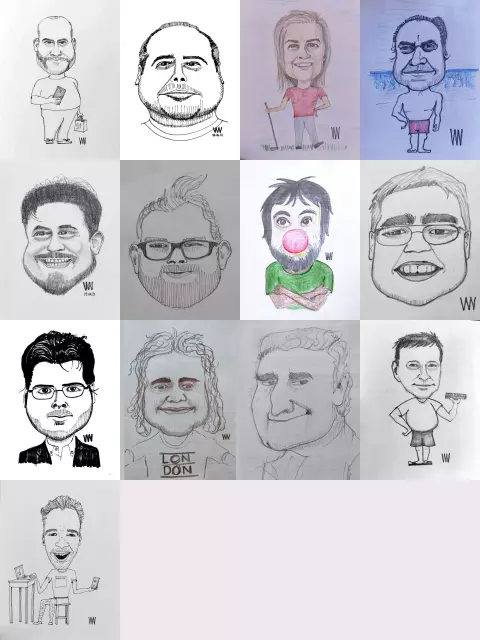
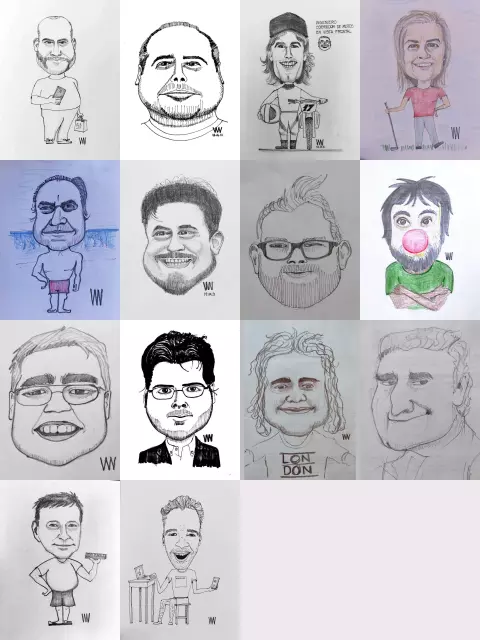
Version 20210703

diff --git a/galeria-conocidos-2.html b/galeria-conocidos-2.html
@@ -31,22 +31,25 @@
 		</p>
 		<div class="col-6 img-responsive" style="text-align:center;">
 			<map name="primary">
-				<area shape="rect" coords="000,000,120,160" onclick="muestraImagen('images/personajes/JohnnieV.webp ')" alt="Johnnie V">      
-				<area shape="rect" coords="120,000,240,160" onclick="muestraImagen('images/personajes/JoseLuisM.webp ')" alt="JoseLuisM">      
-				<area shape="rect" coords="240,000,360,160" onclick="muestraImagen('images/personajes/joseO.webp     ')" alt="joseO  ">      
-				<area shape="rect" coords="360,000,480,160" onclick="muestraImagen('images/personajes/lourdesF.webp  ')" alt="Lourdes Flores">             
-				<area shape="rect" coords="000,160,120,320" onclick="muestraImagen('images/personajes/LuciBagilet.webp')" alt="LuciBagilet ">              
-				<area shape="rect" coords="120,160,240,320" onclick="muestraImagen('images/personajes/Magiord.webp   ')" alt="Magiord">             
-				<area shape="rect" coords="240,160,360,320" onclick="muestraImagen('images/personajes/MarianoMocoroa.webp')" alt="MarianoMocoroa">         
-				<area shape="rect" coords="360,160,480,320" onclick="muestraImagen('images/personajes/Nane.webp      ')" alt="Nane	">             
-				<area shape="rect" coords="000,320,120,480" onclick="muestraImagen('images/personajes/NataliaMariscotti.webp  ')" alt="Natalia Mariscotti">
-				<area shape="rect" coords="120,320,240,480" onclick="muestraImagen('images/personajes/OscarAbe.webp  ')" alt="Oscar Abella">   
-				<area shape="rect" coords="240,320,360,480" onclick="muestraImagen('images/personajes/OscarDeSan.webp')" alt="Oscar de Sanctis">   
-				<area shape="rect" coords="360,320,480,480" onclick="muestraImagen('images/personajes/Pascal.webp    ')" alt="Pascal">                 
-				<area shape="rect" coords="000,480,120,640" onclick="muestraImagen('images/personajes/RubenD.webp    ')" alt="RubenD">
-				<area shape="rect" coords="120,480,240,640" onclick="muestraImagen('images/personajes/WillieV-simpatico+txt.webp')" alt="el dibujante">
-				<area shape="rect" coords="240,480,360,640" onclick="muestraImagen('images/personajes/WillieV-simpatico+txt.webp')" alt="el dibujante">
-				<area shape="rect" coords="360,480,480,640" onclick="muestraImagen('images/personajes/WillieV-simpatico+txt.webp')" alt="el dibujante">
+				<area shape="rect" coords="000,000,120,160" onclick="muestraImagen('images/personajes/JesusCejas.webp			')" alt="Jesus Cejas">      
+				<area shape="rect" coords="120,000,240,160" onclick="muestraImagen('images/personajes/JohnnieV.webp				')" alt="Johnnie V">      
+				<area shape="rect" coords="240,000,360,160" onclick="muestraImagen('images/personajes/JoseLuisM.webp			')" alt="JoseLuisM">      
+				<area shape="rect" coords="360,000,480,160" onclick="muestraImagen('images/personajes/joseO.webp					')" alt="joseO  ">      
+				<area shape="rect" coords="000,160,120,320" onclick="muestraImagen('images/personajes/lourdesF.webp				')"	alt="Lourdes Flores">             
+				<area shape="rect" coords="120,160,240,320" onclick="muestraImagen('images/personajes/LuciBagilet.webp		')" alt="LuciBagilet ">              
+				<area shape="rect" coords="240,160,360,320" onclick="muestraImagen('images/personajes/Magiord.webp				')" alt="Magiord">             
+				<area shape="rect" coords="360,160,480,320" onclick="muestraImagen('images/personajes/MarianoMocoroa.webp ')" alt="MarianoMocoroa">         
+				<area shape="rect" coords="000,320,120,480" onclick="muestraImagen('images/personajes/Nane.webp						')" alt="Nane	">             
+				<area shape="rect" coords="120,320,240,480" onclick="muestraImagen('images/personajes/NataliaMariscotti.webp')" alt="Natalia Mariscotti">
+				<area shape="rect" coords="240,320,360,480" onclick="muestraImagen('images/personajes/OscarAbe.webp				')" alt="Oscar Abella">   
+				<area shape="rect" coords="360,320,480,480" onclick="muestraImagen('images/personajes/OscarDeSan.webp			')" alt="Oscar de Sanctis">   
+				<area shape="rect" coords="000,480,120,640" onclick="muestraImagen('images/personajes/OsvaldoDiaz.webp		')" alt="Osvaldo Diaz">   
+				<area shape="rect" coords="120,480,240,640" onclick="muestraImagen('images/personajes/PabloCaputi.webp    ')" alt="PabloCaputi">                 
+				<area shape="rect" coords="240,480,360,640" onclick="muestraImagen('images/personajes/Pascal.webp					')" alt="Pascal">                 
+				<area shape="rect" coords="360,480,480,640" onclick="muestraImagen('images/personajes/RubenD.webp					')" alt="RubenD">
+				
+				<!-- <area shape="rect" coords="" onclick="muestraImagen('images/personajes/WillieV-simpatico+txt.webp')" alt="el dibujante"> -->
+
 			</map>
 			<img usemap="#primary" src="images/personajes/galeria-conocidos-2.webp" alt="personajes conocidos" class="img-responsive">
 

diff --git a/galeria-conocidos-1.html b/galeria-conocidos-1.html
@@ -31,23 +31,20 @@
 		</p>
 		<div class="col-6 img-responsive" style="text-align:center;">
 			<map name="primary">
-				<area shape="rect" coords="000,000,120,160" onclick="muestraImagen('images/personajes/AleH.webp      ')" alt="AleH">
+				<area shape="rect" coords="000,000,120,160" onclick="muestraImagen('images/personajes/AleH.webp					  ')" alt="AleH">
 				<area shape="rect" coords="120,000,240,160" onclick="muestraImagen('images/personajes/AlejandroYacono.webp')" alt="Alejandro Yacono">
-				<area shape="rect" coords="240,000,360,160" onclick="muestraImagen('images/personajes/AnnieV.webp    ')" alt="AnnieV         ">
-				<area shape="rect" coords="360,000,480,160" onclick="muestraImagen('images/personajes/ArielJurjo.webp')" alt="ArielJurjo     ">
-				
-				<area shape="rect" coords="000,160,120,320" onclick="muestraImagen('images/personajes/AugustoOliva.webp')" alt="Augusto Oliva">
-				<area shape="rect" coords="120,160,240,320" onclick="muestraImagen('images/personajes/ClausH.webp    ')" alt="ClausH         ">
-				<area shape="rect" coords="240,160,360,320" onclick="muestraImagen('images/personajes/CristianG.webp ')" alt="Cristian Gonzalez">
-				<area shape="rect" coords="360,160,480,320" onclick="muestraImagen('images/personajes/DiegoT.webp    ')" alt="Diego Torres">
-				
-				<area shape="rect" coords="000,320,120,480" onclick="muestraImagen('images/personajes/EzequielCastano.webp')" alt="Ezequiel Castaño">
-				<area shape="rect" coords="120,320,240,480" onclick="muestraImagen('images/personajes/GermanG.webp   ')" alt="GermanG">      
-				<area shape="rect" coords="240,320,360,480" onclick="muestraImagen('images/personajes/Guille-II.webp ')" alt="Guille-II">      
-				<area shape="rect" coords="360,320,480,480" onclick="muestraImagen('images/personajes/GuilleDianda.webp')" alt="GuilleD        ">    
-
-				<area shape="rect" coords="000,480,120,640" onclick="muestraImagen('images/personajes/GuilleFlores.webp')" alt="Guille Flores">      
-				<area shape="rect" coords="120,480,240,640" onclick="muestraImagen('images/personajes/WillieV-simpatico+txt.webp')" alt="el dibujante">
+				<area shape="rect" coords="240,000,360,160" onclick="muestraImagen('images/personajes/AlfredoBolatti.webp ')" alt="Alfredo Bolatti">
+				<area shape="rect" coords="360,000,480,160" onclick="muestraImagen('images/personajes/AnnieV.webp					')" alt="AnnieV         ">
+				<area shape="rect" coords="000,160,120,320" onclick="muestraImagen('images/personajes/ArielJurjo.webp			')" alt="ArielJurjo     ">				
+				<area shape="rect" coords="120,160,240,320" onclick="muestraImagen('images/personajes/AugustoOliva.webp		')" alt="Augusto Oliva">
+				<area shape="rect" coords="240,160,360,320" onclick="muestraImagen('images/personajes/ClausH.webp					')" alt="ClausH         ">
+				<area shape="rect" coords="360,160,480,320" onclick="muestraImagen('images/personajes/CristianG.webp			')" alt="Cristian Gonzalez">
+				<area shape="rect" coords="000,320,120,480" onclick="muestraImagen('images/personajes/DiegoT.webp					')" alt="Diego Torres">				
+				<area shape="rect" coords="120,320,240,480" onclick="muestraImagen('images/personajes/EzequielCastano.webp')" alt="Ezequiel Castaño">
+				<area shape="rect" coords="240,320,360,480" onclick="muestraImagen('images/personajes/GermanG.webp				')" alt="GermanG">      
+				<area shape="rect" coords="360,320,480,480" onclick="muestraImagen('images/personajes/Guille-II.webp			')" alt="Guille-II">      
+				<area shape="rect" coords="000,480,120,640" onclick="muestraImagen('images/personajes/GuilleDianda.webp		')" alt="GuilleD        ">    
+				<area shape="rect" coords="120,480,240,640" onclick="muestraImagen('images/personajes/GuilleFlores.webp		')" alt="Guille Flores">      
 				<area shape="rect" coords="240,480,360,640" onclick="muestraImagen('images/personajes/WillieV-simpatico+txt.webp')" alt="el dibujante">
 				<area shape="rect" coords="360,480,480,640" onclick="muestraImagen('images/personajes/WillieV-simpatico+txt.webp')" alt="el dibujante">
 			</map>

diff --git a/problemas-anteriores.html b/problemas-anteriores.html
@@ -34,6 +34,26 @@
 
 <div class="row clr_fondo">
   <div class="col-8">
+	<!-- 
+	publicado en facebook el 24/6/2015
+Un problema de lógica: "El cumpleaños de Danielito"
+Angelito, Betito y Cachito se hicieron amigos de Danielito, y querían saber cuándo era su cumpleaños. Danielito dió una lista de 20 posibles fechas de nacimiento.
+   17 febrero 2001, 16 marzo 2002, 13 enero 2003, 19 enero 2004
+   13 marzo 2001, 15 abril 2002, 16 febrero 2003, 18 febrero 2004
+   13 abril 2001, 14 mayo 2002, 14 marzo 2003, 19 mayo 2004
+   15 mayo 2001, 12 junio 2002, 11 abril 2003, 14 julio 2004
+   17 junio 2001, 16 agosto 2002, 16 julio 2003, 18 agosto 2004
+Danielito le dijo por separado a Angelito, Betito y Cachito el día el mes y el año de su nacimiento, respectivamente.  Enseguida escuchamos la siguiente conversación:
+-Betito: No sé cuándo es el cumpleaños de Danielito, pero sé que Angelito no lo sabe.
+- Angelito: Todavía no sé cuándo es el cumpleaños de Danielito, pero sé que Cachito aún no lo sabe.
+- Cachito: Todavía no sé cuándo es el cumpleaños de Danielito, pero sé que Betito aún no lo sabe.
+- Betito: Ahora sé cuando es el cumpleaños de Danielito.
+- Angelito: Ahora lo sé yo también.
+- Cachito: Yo también.
+En definitiva, cuando es el cumpleaños de Danielito?
+Aclaración: ni Angelito, ni Betito, ni Cachito saben nada al principio, aparte del hecho de que a Angelito le han dicho el día (es decir, el número del día), a Betito el mes y a Cachito el año.
+
+	-->
 			<dt>La venganza de Danielito
 			<dd>Todo estaba bien con Andresito, Bartolito y Cachito hasta que apareció Danielito. ...correcto,  otro enigma de cumpleaños.
 			<dd>Andresito, Bartolito y Cachito se hicieron amigos con Danielito, y querían saber cuándo es su cumpleaños. Danielito dió una lista de 20 posibles fechas de nacimiento.

diff --git a/repgrafsincorbata.html b/repgrafsincorbata.html
@@ -60,9 +60,46 @@
 </div>
 
 <!-- fin contenido -->
+<div class="row clr_fondo">
+  <div class="col-2">
+  </div>
+  <div class="col-8" style="text-align: center;">
+		<p>
+		<a href="https://www.facebook.com/gverger/" target="_blank">
+			<img src="images/icon-facebook.svg" width="32" height="32" alt="facebook"/>
+		</a>
+		&nbsp;
+		<a href="https://twitter.com/ingverger" target="_blank">
+			<img src="images/icon-twitter.svg" width="32" height="32" alt="twitter"/>
+		</a>
+		&nbsp;
+		<a href="https://instagram.com/willieverger" target="_blank">
+			<img src="images/icon-instagram.svg" width="32" height="32" alt="instagram"/>
+		</a>
 
-<div class="row clr_claro">
+		</p>
+  </div>
+  <div class="col-2">
+  </div>
 </div>
+
+	<div class="row clr_fondo">
+	  <div class="col-2"></div>
+	  <div class="col-8">
+			<!-- Codigo para anuncios InArticle en el lugar donde quiero aparezca	-->
+			<script async src="https://pagead2.googlesyndication.com/pagead/js/adsbygoogle.js"></script>
+			<ins class="adsbygoogle"
+					 style="display:block; text-align:center;"
+					 data-ad-layout="in-article"
+					 data-ad-format="fluid"
+					 data-ad-client="ca-pub-4076082038101002"
+					 data-ad-slot="9586801789"></ins>
+			<script>
+					 (adsbygoogle = window.adsbygoogle || []).push({});
+			</script>
+		</div>
+		<div class="col-2"></div>
+	</div>
 
 	<ul id="mainMenu">
 		<li><a href="./curriculum-resumido.html">Quién soy</a></li>

diff --git a/matematica-recreativa.html b/matematica-recreativa.html
@@ -44,6 +44,44 @@
 		</div>
 	</div>
 
+<div class="row clr_fondo">
+  <div class="col-2"></div>
+  <div class="col-8" style="text-align: center;">
+		<p>
+		<a href="https://www.facebook.com/gverger/" target="_blank">
+			<img src="images/icon-facebook.svg" width="32" height="32" alt="facebook"/>
+		</a>
+		&nbsp;
+		<a href="https://twitter.com/ingverger" target="_blank">
+			<img src="images/icon-twitter.svg" width="32" height="32" alt="twitter"/>
+		</a>
+		&nbsp;
+		<a href="https://instagram.com/willieverger" target="_blank">
+			<img src="images/icon-instagram.svg" width="32" height="32" alt="instagram"/>
+		</a>
+
+		</p>
+  </div>
+  <div class="col-2">
+  </div>
+</div>
+	<div class="row clr_fondo">
+	  <div class="col-2"></div>
+	  <div class="col-8">
+			<!-- Codigo para anuncios InArticle en el lugar donde quiero aparezca	-->
+			<script async src="https://pagead2.googlesyndication.com/pagead/js/adsbygoogle.js"></script>
+			<ins class="adsbygoogle"
+					 style="display:block; text-align:center;"
+					 data-ad-layout="in-article"
+					 data-ad-format="fluid"
+					 data-ad-client="ca-pub-4076082038101002"
+					 data-ad-slot="9586801789"></ins>
+			<script>
+					 (adsbygoogle = window.adsbygoogle || []).push({});
+			</script>
+		</div>
+		<div class="col-2"></div>
+	</div>
 
 	<ul id="mainMenu">
 		<li><a href="./curriculum-resumido.html">Quién soy</a></li>

diff --git a/problemas_ingenio_2020.html b/problemas_ingenio_2020.html
@@ -46,6 +46,28 @@
 		</div>
 	</div>
 
+	<div class="row clr_fondo">
+		<div class="col-2">
+		</div>
+		<div class="col-8" style="text-align: center;">
+			<p>
+			<a href="https://www.facebook.com/gverger/" target="_blank">
+				<img src="images/icon-facebook.svg" width="32" height="32" alt="facebook"/>
+			</a>
+			&nbsp;
+			<a href="https://twitter.com/ingverger" target="_blank">
+				<img src="images/icon-twitter.svg" width="32" height="32" alt="twitter"/>
+			</a>
+			&nbsp;
+			<a href="https://instagram.com/willieverger" target="_blank">
+				<img src="images/icon-instagram.svg" width="32" height="32" alt="instagram"/>
+			</a>
+
+			</p>
+		</div>
+		<div class="col-2">
+		</div>
+	</div>
 
 	<div>
 		<ul id="mainMenu">

diff --git a/index.html b/index.html
@@ -153,7 +153,7 @@
   </div>
   <div class="col-8" style="text-align: center;">
 		<p>
-		<a href="https://fb.me/IngVerger" target="_blank">
+		<a href="https://www.facebook.com/gverger/" target="_blank">
 			<img src="images/icon-facebook.svg" width="32" height="32" alt="facebook"/>
 		</a>
 		&nbsp;

diff --git a/presenta-sumaoculta.js b/presenta-sumaoculta.js
@@ -3,9 +3,10 @@
 
 //=========
 // constantes
+//	05/11/2020
 //=========
 const
-	versionString = "0.3.0", //  lleva el numero de version actual
+	versionString = "0.3.0", //	05/11/2020
 	DEBUG = false,
 	//	DEBUG = true,
 	NRO_PROB = 1,

diff --git a/_victoria_original/notes/presupuesto.md b/_victoria_original/notes/presupuesto.md
@@ -1,0 +1,60 @@
+# PRESUPUESTO
+
+## OBJETO
+Provisión de sitio web optimizado para ver en PC y celulares (responsive website)
+
+## Especificaciones del sitio
+Estructura visible en https://bit.ly/victoria_er
+
+Una página para cada negocio adherido con:
+
+- información básica (nombre,dirección, teléfono, logotipo)
+- oferta de productos y/o servicios.
+- beneficios (promos, descuentos, menús en oferta)
+- modo entrega: delivery, take away, etc.
+- formas de pago: tarjetas, Mercado Pago, Billetera Virtual, etc.
+- enlace a WhatsApp para realizar pedidos.
+
+## Requerimientos
+El grupo empresario proveerá textos comunes
+
+- títulos de sitio y secciones
+- descripción del grupo
+- opciones de consulta al grupo en un formulario
+
+Cada empresa proveerá 
+
+- su logotipo
+- nombre, dirección, teléfono(s)
+- imágenes y textos en formato digital (.DOC, .DOCX, .TXT o mail) hasta 12 items por empresa.
+
+El material de las empresas será canalizado a través de un representante responsable de
+- canalizar el material provistos por las empresas y
+- dar aprovación a los avances y finalización del trabajo.
+
+## Precios y plazos de entrega
+
+| Empresas | Precio | Plazo entrega |
+|:-----|:-----|:-----|
+| 30 | $134 000.- | 30 días |
+| 50 | $214 000.- | 45 días |
+| | | |
+----
+
+
+
+
+Para contestar tu pregunta me faltan algunos datos.
+- Cantidad de participantes. Ya que cada uno tendrá un sector individual y exclusivo.
+- Cantidad de items, productos, imágenes o promociones que quisieran presentar. Que pensándolo un poco debiera ser similar (no necesariamente igual) para todos.
+- Necesitan factura?
+
+También deben considerar que necesitarán:
+1/ Un servicio de hosting donde alojar el sitio.
+ Puedo conseguir algo gratuito que servirá para iniciar, ver primeros resultados pero con limitaciones, por ejemplo sin servicio de estadísticas.
+ Pero con el tiempo será necesario contratar alguno.
+
+2/ Y es lo más importante: un nombre de dominio. Algo así como "comerciosvictoria.com.ar", "victoriaprovee.com.ar", "tuvictoria.com.ar" o algo similar que los identifique claramente.
+Puedo indicarles cómo hacerlo. Es simple, el costo no es significativo y es imprescindible para tener una identidad.
+
+
